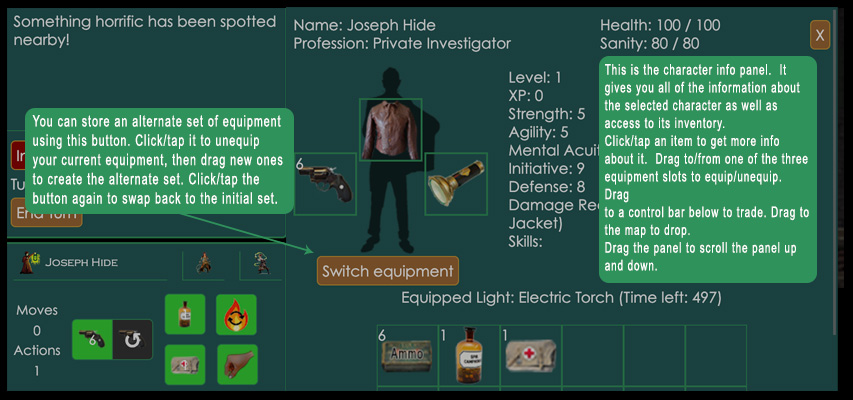
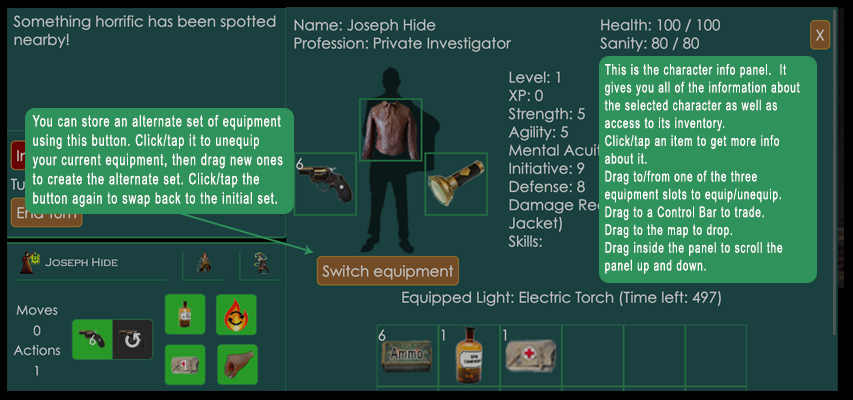
Fixing issue with draggig inv item to pcs own control bar; fixing some wording in help screens; fixing dragging to control bars to include bar tabs

Changed region(s): [[0.7011, 0.39, 0.9449, 0.69]]

diff --git a/client/src/UIElements.js b/client/src/UIElements.js
@@ -131,7 +131,11 @@ function CharacterControls(props) {
 
 	const displayCharName = ((props.screenSize.isNarrow || props.screenSize.isShort) && props.characterId === props.selectedControlTab) || (!props.screenSize.isNarrow && !props.screenSize.isShort);
 	return (
-		<div id={`${((props.screenSize.isNarrow || props.screenSize.isShort) && props.characterId === props.selectedControlTab) ? 'control-bar-tab-1' : ''}`} className='control-bar-tab-container'>
+		<div
+			id={`${((props.screenSize.isNarrow || props.screenSize.isShort) && props.characterId === props.selectedControlTab) ? 'control-bar-tab-1' : ''}`}
+			className='control-bar-tab-container'
+			onDragOver={(evt) => handleItemOverDropZone(evt)}
+			onDrop={(evt) => props.dropItemToPC(evt, props.characterId)}>
 			<div className='control-bar-tab character-name font-fancy' onClick={() => props.setSelectedControlTab(props.characterId)}>
 				<span className={`control-bar-tab-icon ${convertObjIdToClassId(props.characterId)}`}></span>
 				{displayCharName ? props.characterName : ''}
@@ -139,8 +143,6 @@ function CharacterControls(props) {
 			<div
 				id={`char-control-${props.characterId}`}
 				className={`character-control-container ${((props.screenSize.isNarrow || props.screenSize.isShort) && props.characterId !== props.selectedControlTab) ? 'hide' : ''}`}
-				onDragOver={(evt) => handleItemOverDropZone(evt)}
-				onDrop={(evt) => props.dropItemToPC(evt, props.characterId)}
 			>
 				<div className='control-bar-actions-moves'>
 					<div className='control-bar-actions-moves-title'>Moves</div>

diff --git a/client/src/UI.js b/client/src/UI.js
@@ -198,16 +198,14 @@ class UI extends React.Component {
 	}
 
 	dropItemToPC = (evt, recipientId) => {
-		if (Object.keys(this.state.objectSelected).length === 0) {
-			return;
-		}
 		const draggedItem = this.state.objectSelected;
 		const draggedObjectMetaData = this.state.draggedObjectMetaData;
-		if (!draggedItem) return;
-
 		const allPCdata = deepCopy(this.props.playerCharacters);
 		const sourcePCdata = allPCdata[draggedObjectMetaData.sourcePC];
 		const currentPCdata = allPCdata[recipientId];
+		if (!draggedItem || draggedObjectMetaData.sourcePC === recipientId) {
+			return;
+		}
 		const allPlayersInv = deepCopy(this.state.entireInventory);
 		let dialogProps = null;
 
